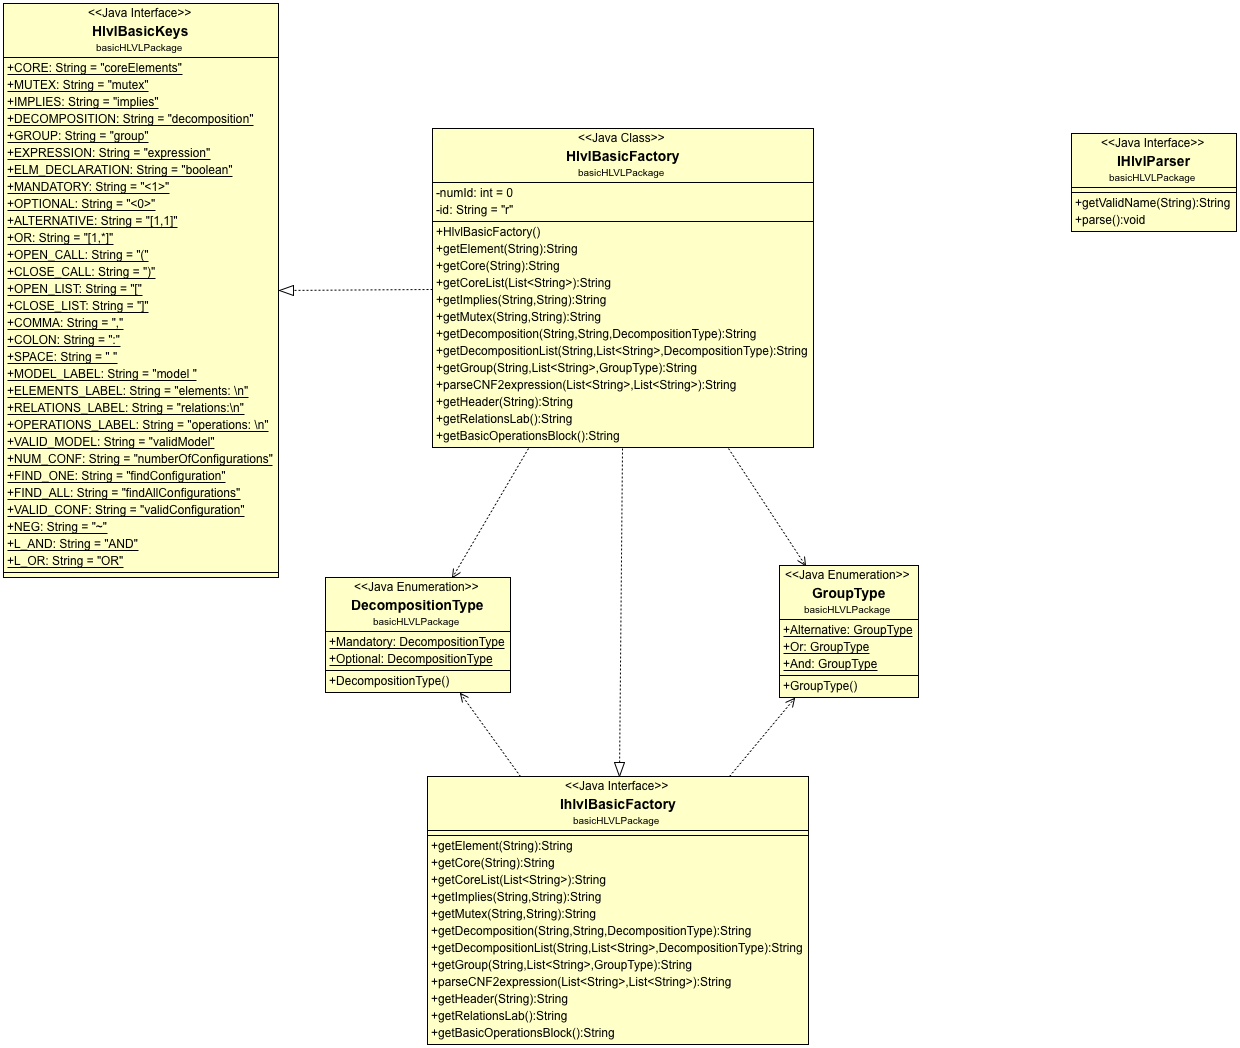
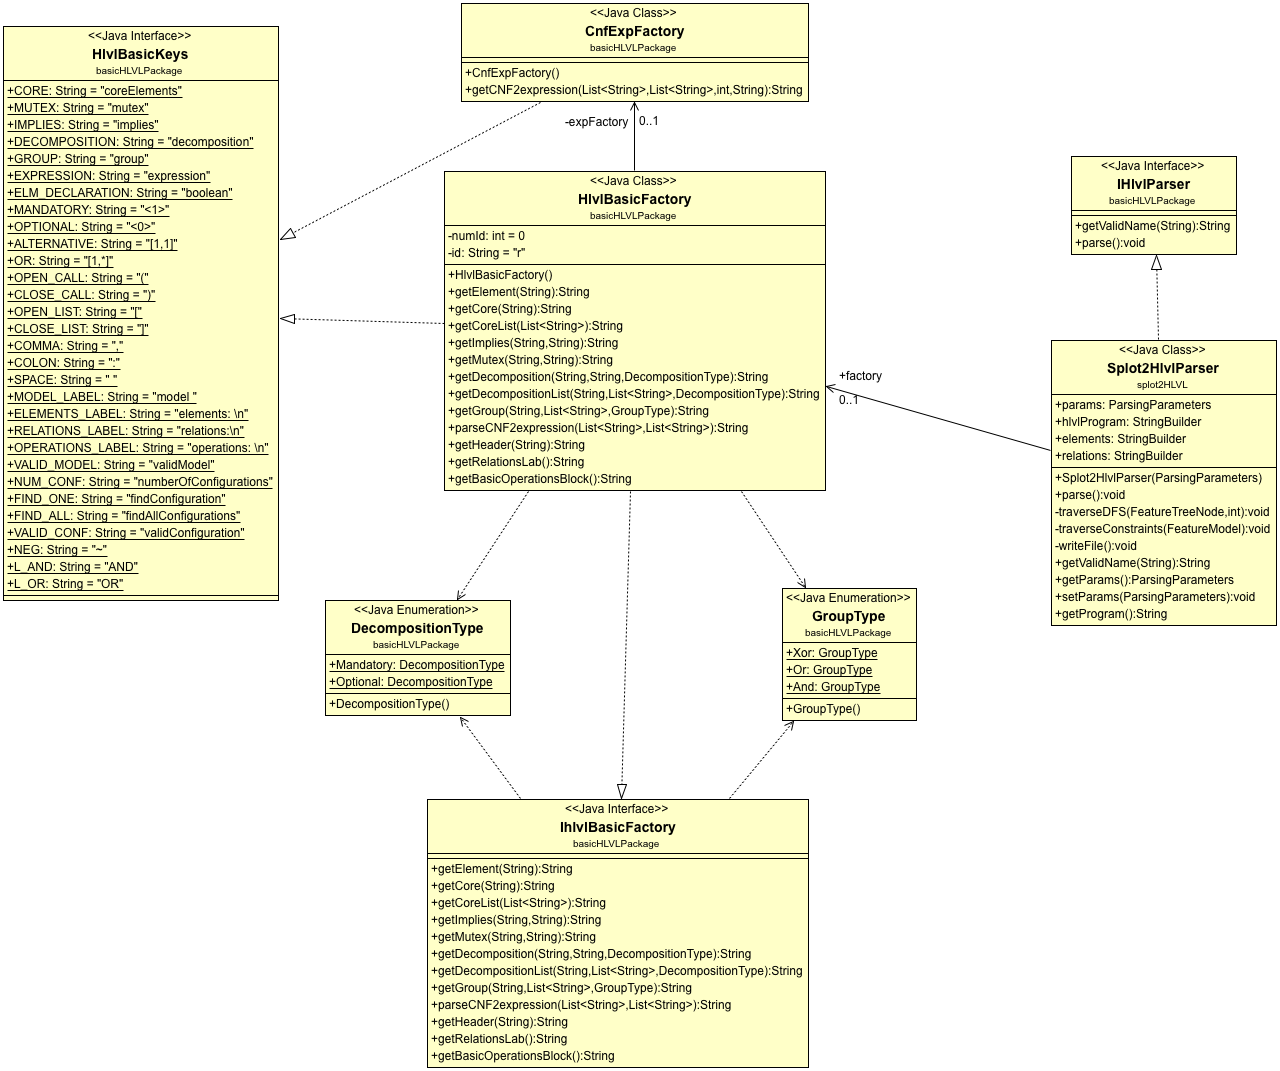
updating the Splot2HLVL parser

diff --git a/splot2HLVL/src/basicHLVLPackage/HlvlBasicFactory.java b/splot2HLVL/src/basicHLVLPackage/HlvlBasicFactory.java
@@ -13,6 +13,8 @@ import java.util.List;
 public class HlvlBasicFactory implements IhlvlBasicFactory, HlvlBasicKeys{
 	private int numId=0;
 	private String id="r";
+	private CnfExpFactory expFactory= new CnfExpFactory();
+	
 	@Override
 	public String getElement(String identifier) {
 		return  ELM_DECLARATION + SPACE+ identifier + "\n";
@@ -92,18 +94,7 @@ public class HlvlBasicFactory implements IhlvlBasicFactory, HlvlBasicKeys{
 	}
 	@Override
 	public String parseCNF2expression(List<String> positives, List<String> negatives) {
-		String out=id+ (numId++) + COLON+  EXPRESSION+ OPEN_CALL;
-
-		for(String element: negatives){
-			out +=  NEG+ element+ SPACE+  L_OR + SPACE;
-		}
-		for(String element: positives){
-			out +=  element+ SPACE+ L_OR + SPACE;
-		}
-
-		out = out.substring(0, out.length() -3)+ CLOSE_CALL + "\n";
-
-		return out; 
+		return expFactory.getCNF2expression(positives, negatives, numId, id); 
 	}
 	@Override
 	public String getHeader(String targetName) {

diff --git a/splot2HLVL/src/basicHLVLPackage/CnfExpFactory.java b/splot2HLVL/src/basicHLVLPackage/CnfExpFactory.java
@@ -1,0 +1,21 @@
+package basicHLVLPackage;
+
+import java.util.List;
+
+public class CnfExpFactory implements HlvlBasicKeys{
+
+	public String getCNF2expression(List<String> positives, List<String> negatives, int numId, String id) {
+		String out= id+ (numId++) + COLON+  EXPRESSION+ OPEN_CALL;
+
+		for(String element: negatives){
+			out +=  NEG+ element+ SPACE+  L_OR + SPACE;
+		}
+		for(String element: positives){
+			out +=  element+ SPACE+ L_OR + SPACE;
+		}
+
+		out = out.substring(0, out.length() -3)+ CLOSE_CALL + "\n";
+
+		return out; 
+	}
+}
